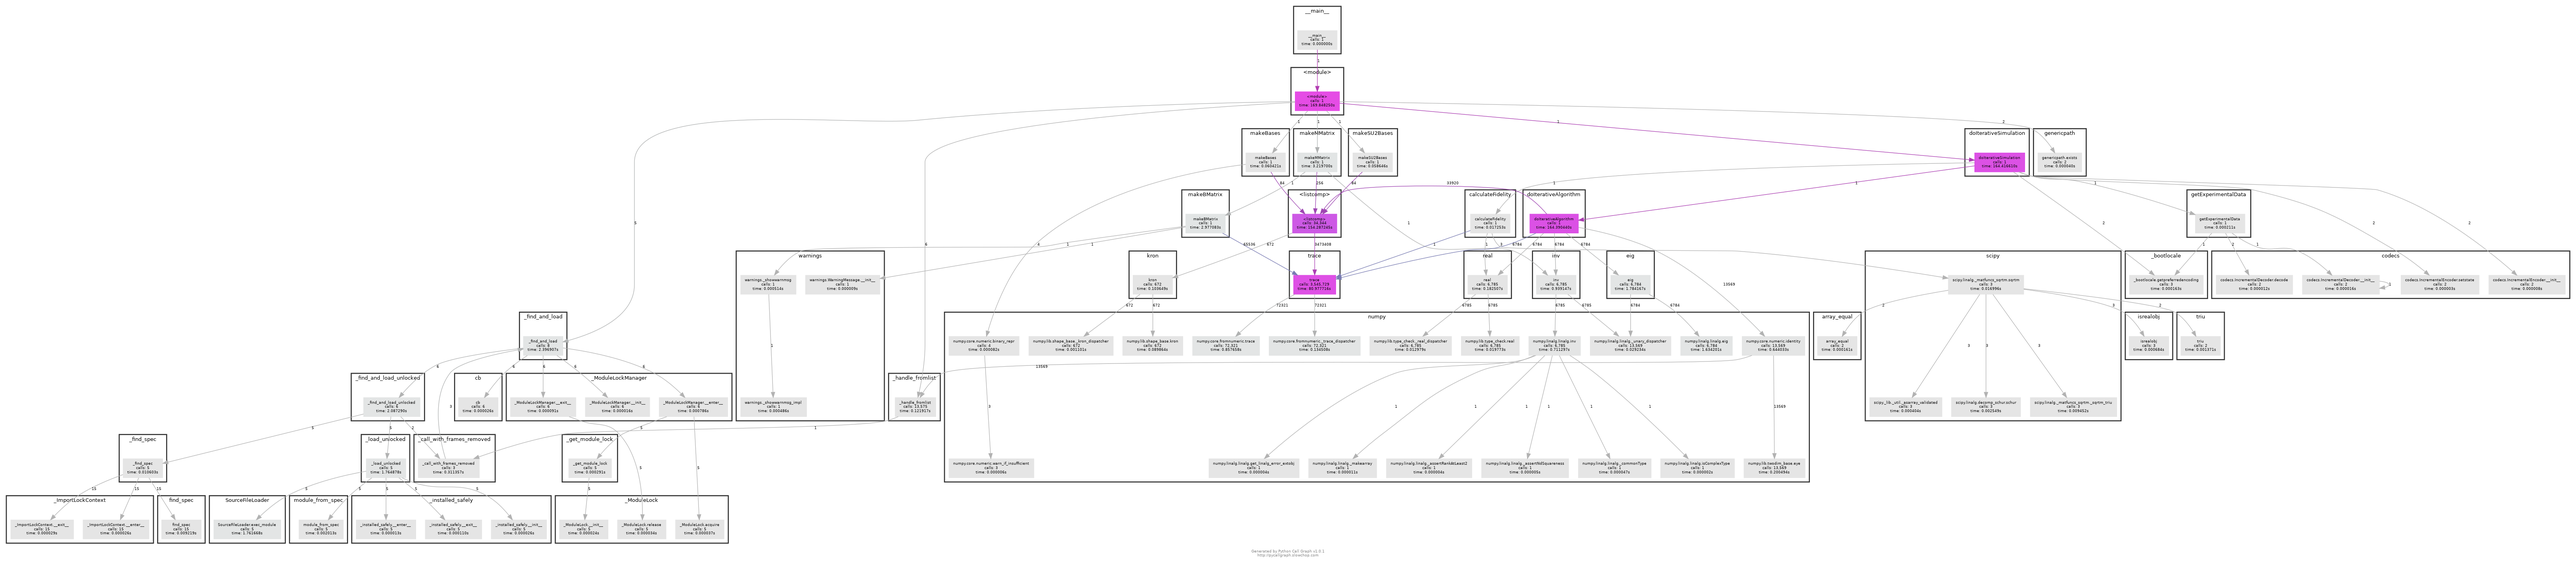
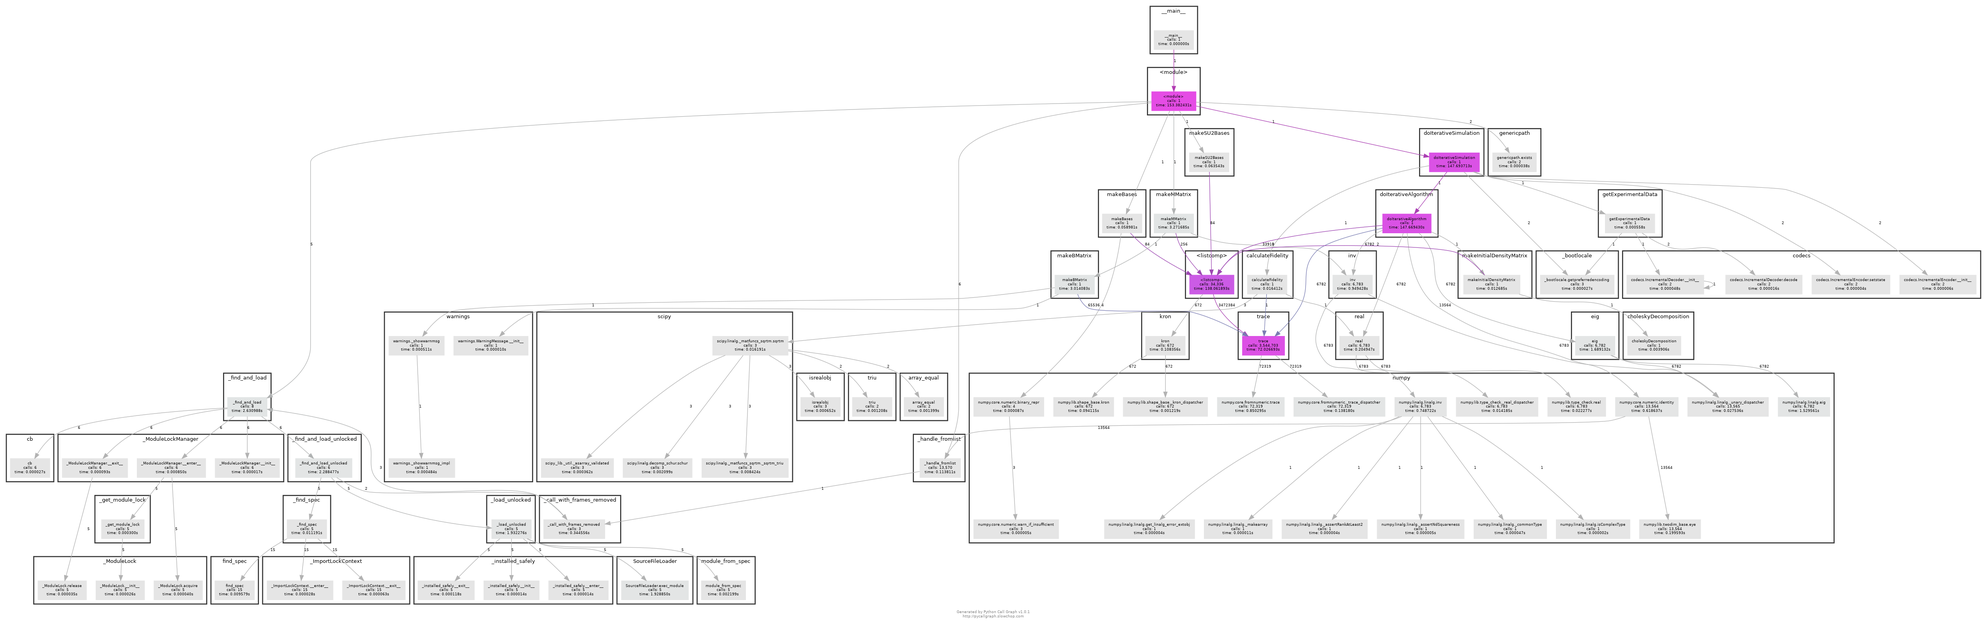
made call graph

diff --git a/nxtest.py b/nxtest.py
@@ -1,0 +1,93 @@
+import matplotlib.pyplot as plt
+import networkx as nx
+import pygraphviz
+
+path = './pycallgraph.dot'
+
+G = nx.Graph(nx.drawing.nx_pydot.read_dot(path))
+
+# print(list(G.nodes))
+
+# print(G.edges)
+
+rme = [
+    'kron',
+    'trace',
+    'inv',
+    'eig',
+    'real',
+    'numpy.lingalg.linalg._unary_dispacher',
+    'numpy.linalg.linalg.inv',
+    'numpy.linalg.linalg._assertNdSquareness',
+    'numpy.linalg.linalg._commonType',
+    'numpy.linalg.linalg.isComplexType',
+    'numpy.linalg.linalg.get_linalg_error_extobj',
+    '_bootlocale.getpreferredencoding',
+    'codecs.IncrementalEncoder.__init__',
+    'codecs.IncrementalEncoder.setstate',
+    '_bootlocale.getpreferredencoding',
+    'codecs.IncrementalDecoder.__init__',
+    'codecs.IncrementalDecoder.decode',
+    'numpy.core.numeric.identity','numpy.lib.twodim_base.eye',
+    'numpy.lib.type_check._real_dispatcher',
+    'numpy.lib.type_check.real',
+    'scipy.linalg._matfuncs_sqrtm.sqrtm',
+    'scipy._lib._util._asarray_validated',
+    'isrealobj',
+    'scipy.linalg.decomp_schur.schur',
+    'array_equal',
+    'triu',
+    'scipy.linalg._matfuncs_sqrtm._sqrtm_triu',
+    'numpy.core.numeric.binary_repr',
+    'warnings._showwarnmsg_impl',
+    'warnings.WarningMessage.__init__',
+    'numpy.core.numeric.warn_if_insufficient',
+    'warnings._showwarnmsg',
+    '<listcomp>',
+    'genericpath.exists',
+    '_handle_fromlist',
+    '_find_and_load',
+    '_ModuleLock.acquire',
+    '_call_with_frames_removed',
+    '_ModuleLock.release',
+    '_ModuleLockManager.__enter__',
+    '_find_and_load_unlocked',
+    '_find_spec',
+    'SourceFileLoader.exec_module',
+    '_installed_safely.__exit__',
+    '_call_with_frames_removed',
+    '_ImportLockContext.__enter__',
+    '_get_module_lock',
+    '_load_unlocked',
+    '_installed_safely.__init__',
+    '_installed_safely.__enter__',
+    '_ImportLockContext.__exit__',
+    'module_from_spec',
+    '_ModuleLockManager.__exit__',
+    'cb',
+    'numpy.lib.shape_base._kron_dispatcher',
+    'numpy.linalg.linalg._makearray',
+    'numpy.linalg.linalg.eig',
+    'numpy.linalg.linalg._assertRankAtLeast2',
+    'numpy.core.fromnumeric._trace_dispatcher',
+    '_ModuleLock.__init__',
+    'numpy.lib.shape_base.kron',
+    'numpy.linalg.linalg._unary_dispatcher',
+    '_ModuleLockManager.__init__',
+    'numpy.core.fromnumeric.trace',
+    'find_spec'
+]
+
+G.remove_nodes_from(rme)
+
+print(G.nodes)
+
+G = nx.nx_agraph.to_agraph(G)
+
+G = pygraphviz.AGraph(directed=True)
+G.graph_attr['rankdir'] = "TB"
+G.graph_attr['splines'] = "ortho"
+G.graph_attr['ordering'] = "out"
+G.layout(prog='dot')
+
+G.draw('graph.png', prog='circo')

diff --git a/qubit_tomo.py b/qubit_tomo.py
@@ -194,8 +194,8 @@ def doIterativeAlgorithm(numberOfQubits, bases, listOfExperimentalDatas, MMatrix
     dataList = listOfExperimentalDatas
     totalCountOfData = sum(dataList)
     nDataList = dataList / totalCountOfData # nDataList is a list of normarized datas
-    # densityMatrix = makeInitialDensityMatrix(numberOfQubits, dataList, bases, MMatrix)
-    densityMatrix = identity(2 ** numberOfQubits)
+    densityMatrix = makeInitialDensityMatrix(numberOfQubits, dataList, bases, MMatrix)
+    # densityMatrix = identity(2 ** numberOfQubits)
 
     """ Start iteration """
     # while traceDistance > TolFun and iter <= maxNumberOfIteration:
